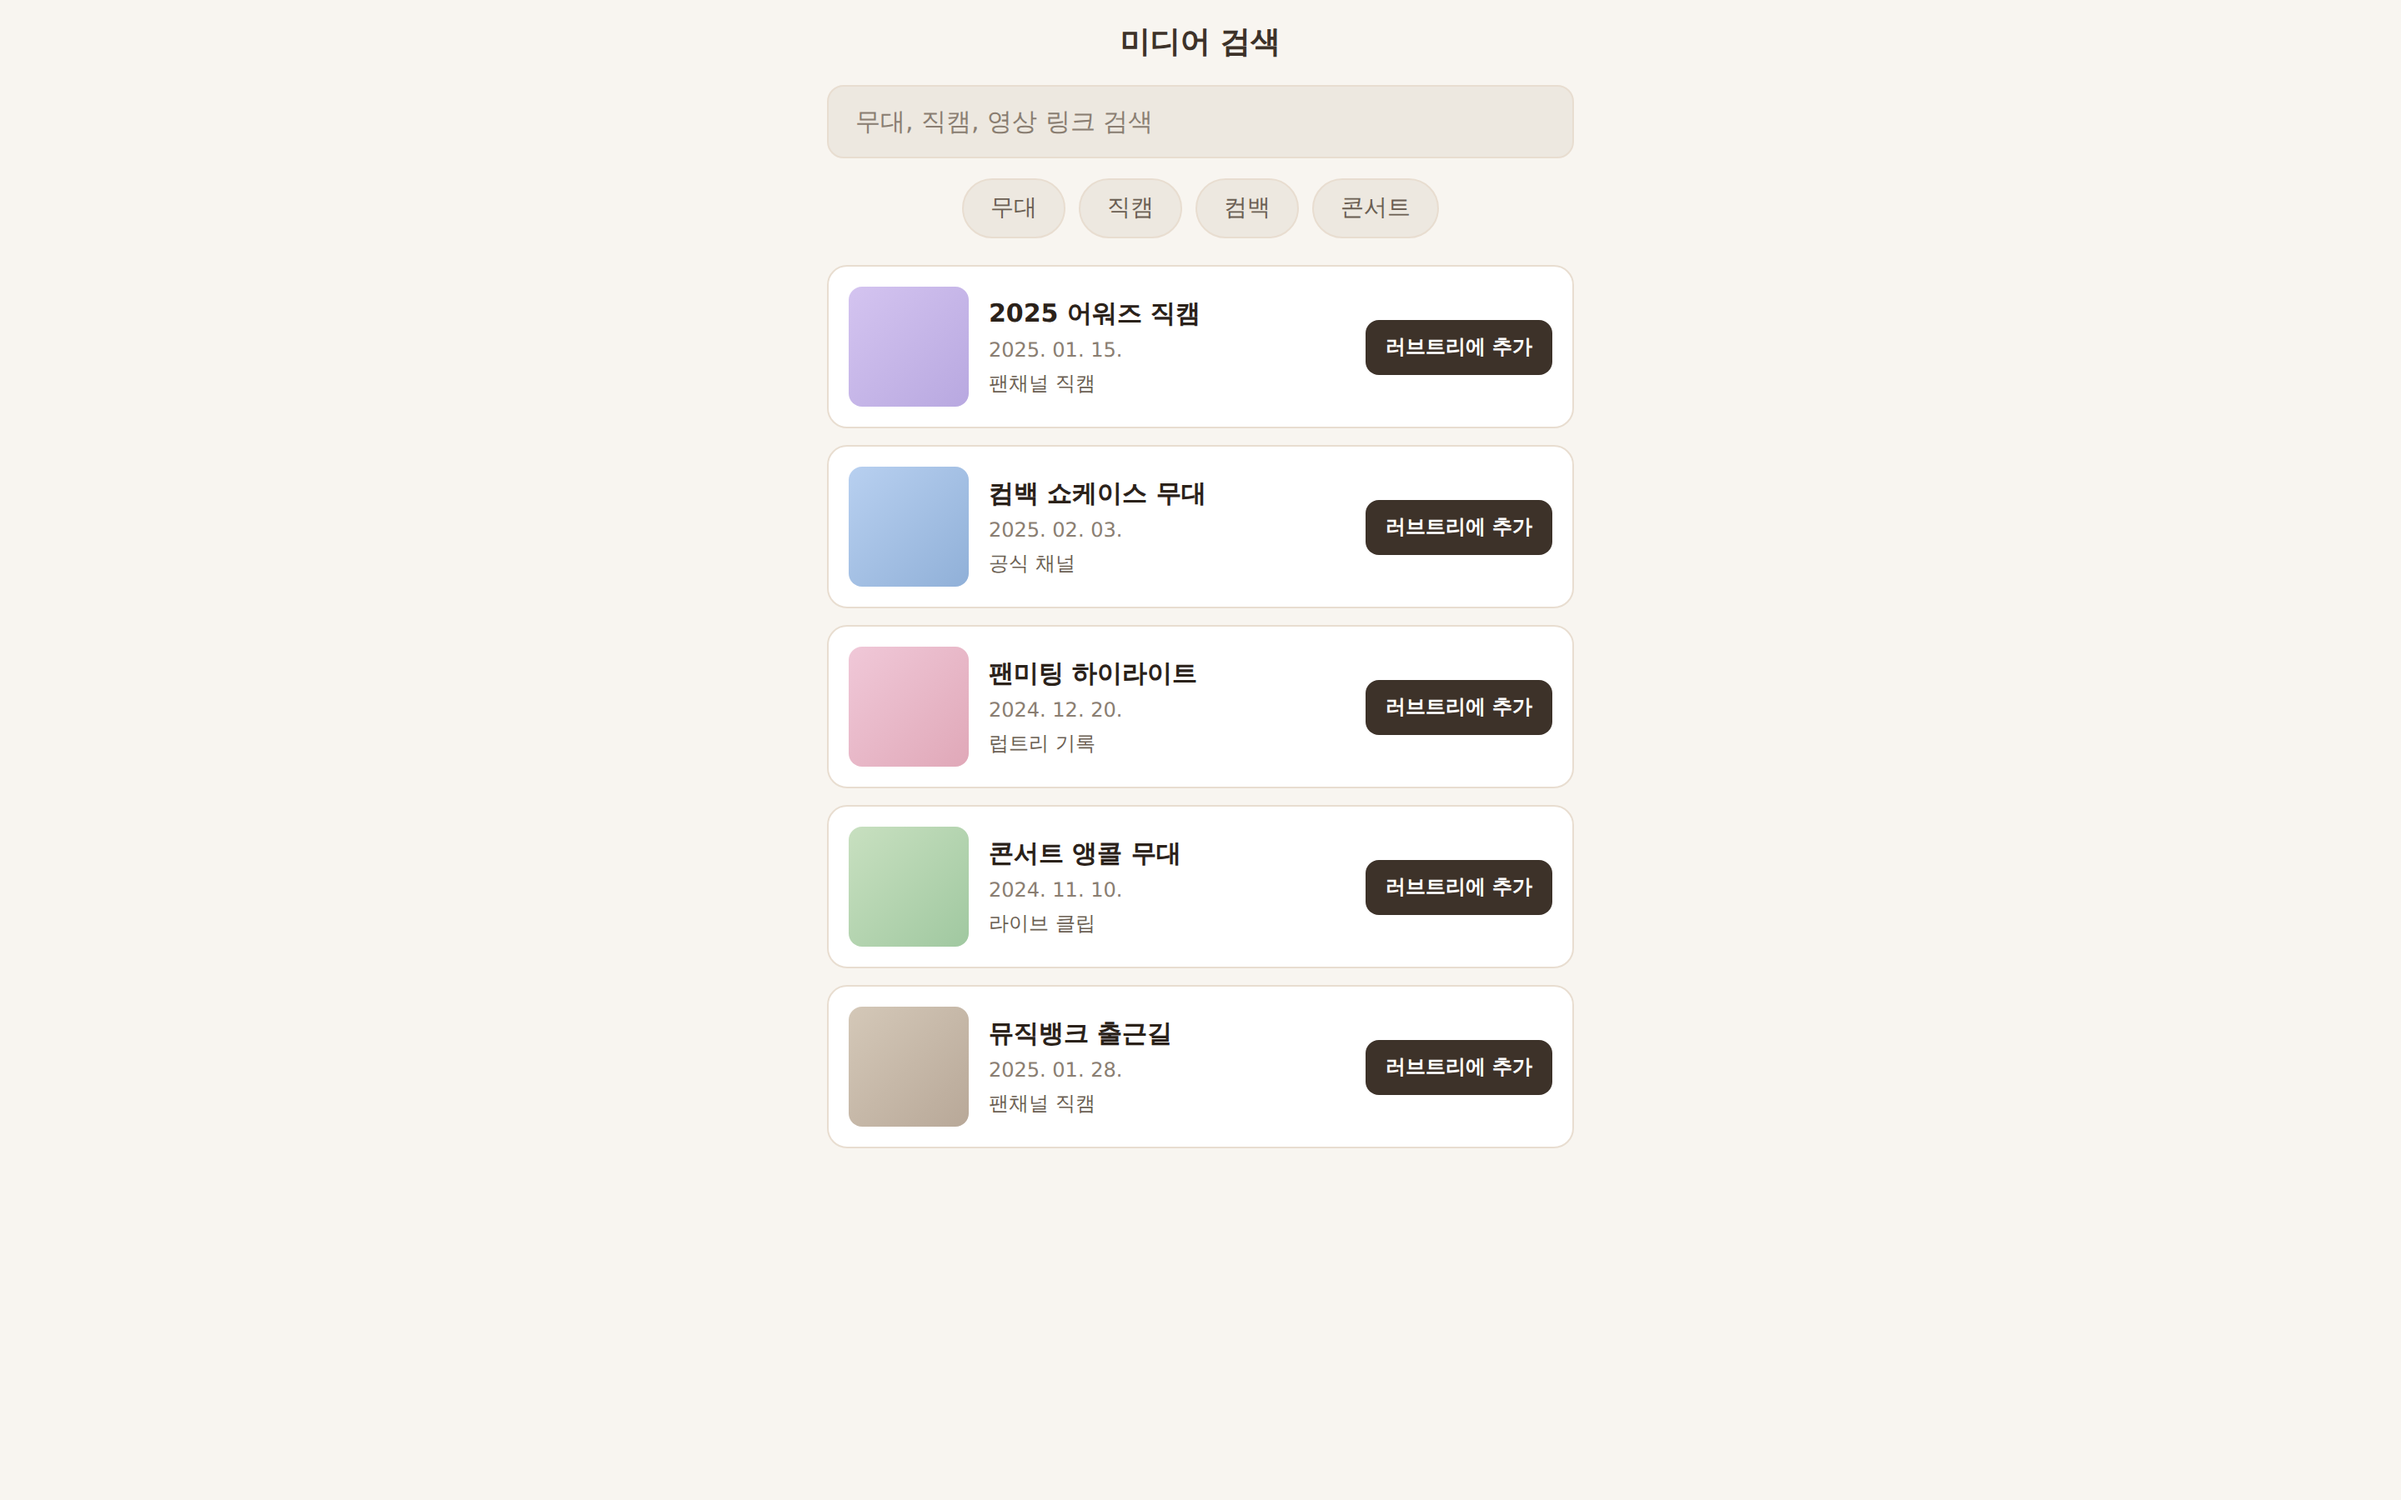
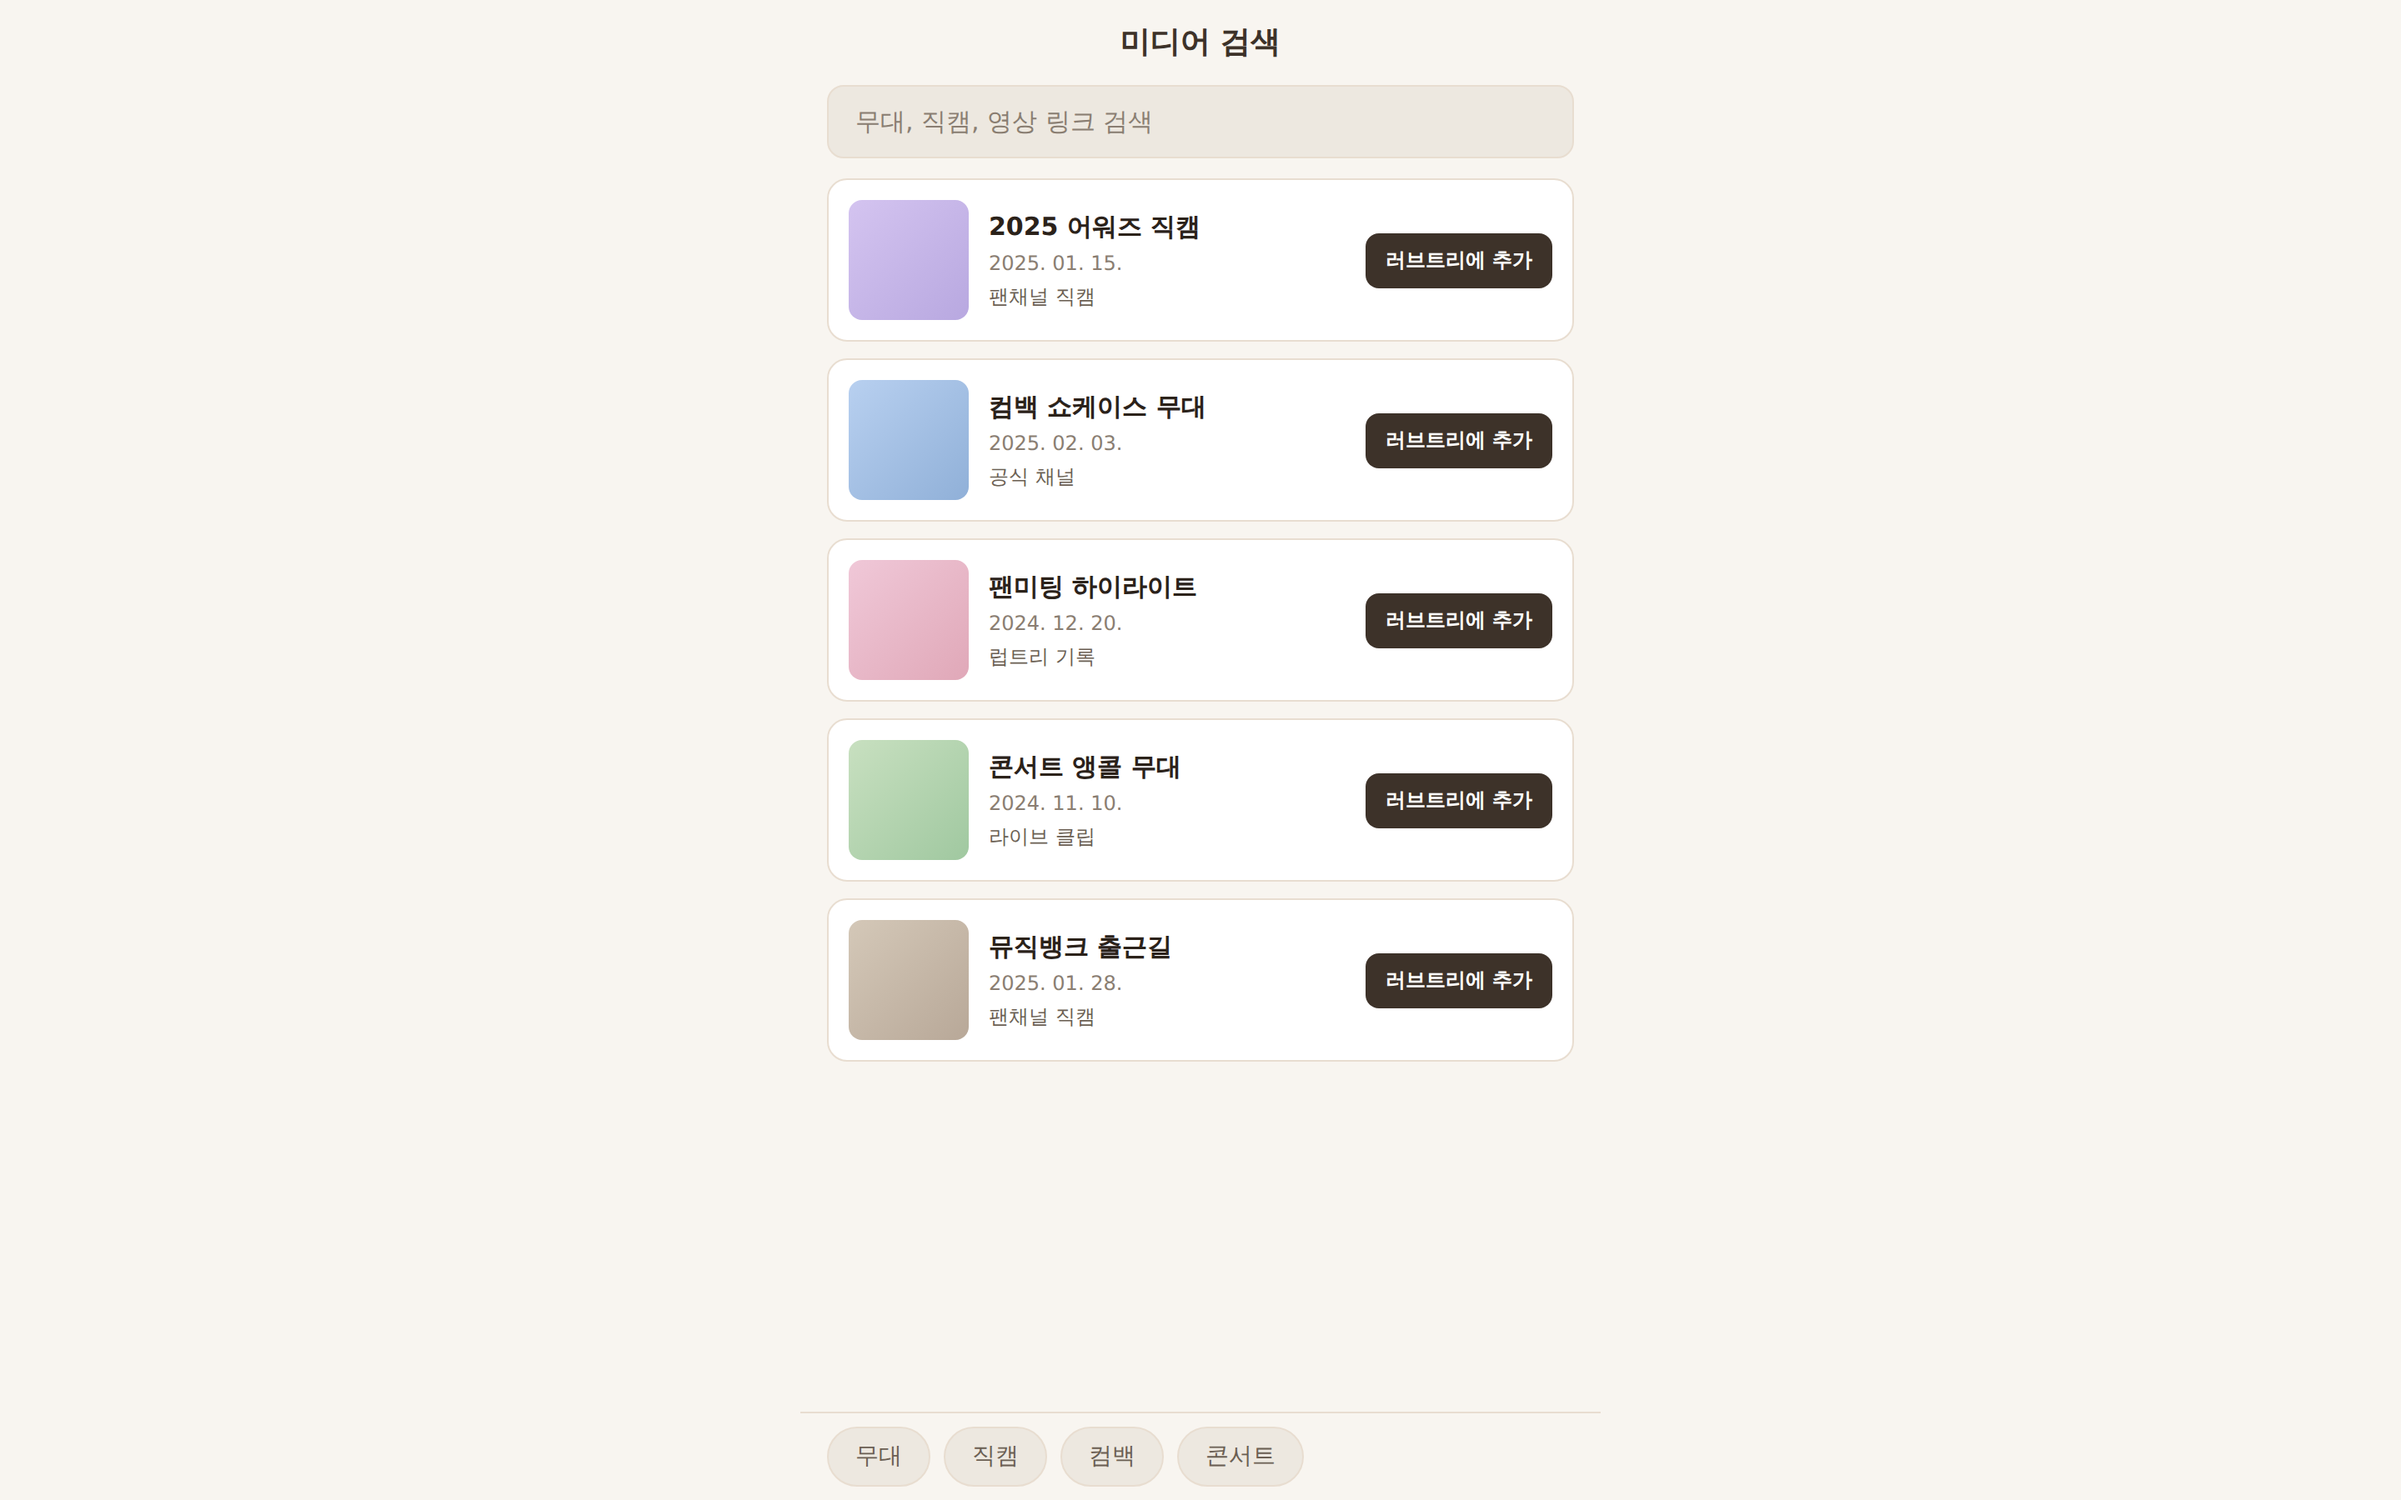
fix: align media filters with bottom layout

diff --git a/src/components/MediaSearchPage.test.tsx b/src/components/MediaSearchPage.test.tsx
@@ -193,6 +193,76 @@ describe("MediaSearchPage — /media/search-demo", () => {
 
     expect(window.location.pathname).toBe("/media/search-demo");
   });
+
+  it("검색 결과 section이 필터 group보다 DOM상 먼저 위치해야 한다", () => {
+    renderAppAt("/media/search-demo");
+    const resultSection = screen.getByRole("region", { name: "검색 결과" });
+    const filterGroup = screen.getByRole("group", { name: "카테고리 필터" });
+
+    expect(
+      resultSection.compareDocumentPosition(filterGroup) &
+        Node.DOCUMENT_POSITION_FOLLOWING
+    ).toBeTruthy();
+  });
+
+  it("필터 그룹이 결과 목록 뒤에 존재해야 한다", () => {
+    renderAppAt("/media/search-demo");
+    const filterGroup = screen.getByRole("group", { name: "카테고리 필터" });
+    expect(filterGroup).toBeInTheDocument();
+  });
+
+  it("필터 버튼만 클릭해도 카드 수가 불변이어야 한다", () => {
+    renderAppAt("/media/search-demo");
+    const filterButtons = screen.getAllByRole("button").filter(
+      (btn) =>
+        btn.textContent === "무대" ||
+        btn.textContent === "직캠" ||
+        btn.textContent === "컴백" ||
+        btn.textContent === "콘서트"
+    );
+
+    const initialCount = screen.getAllByRole("article").length;
+
+    for (const btn of filterButtons) {
+      fireEvent.click(btn);
+    }
+
+    expect(screen.getAllByRole("article")).toHaveLength(initialCount);
+  });
+
+  it("필터 버튼만 클릭해도 URL이 변하지 않아야 한다", () => {
+    renderAppAt("/media/search-demo");
+    const filterButtons = screen.getAllByRole("button").filter(
+      (btn) =>
+        btn.textContent === "무대" ||
+        btn.textContent === "직캠" ||
+        btn.textContent === "컴백" ||
+        btn.textContent === "콘서트"
+    );
+
+    for (const btn of filterButtons) {
+      fireEvent.click(btn);
+    }
+
+    expect(window.location.pathname).toBe("/media/search-demo");
+  });
+
+  it("필터 버튼에 aria-pressed, role='tab', aria-selected가 없어야 한다", () => {
+    renderAppAt("/media/search-demo");
+    const filterButtons = screen.getAllByRole("button").filter(
+      (btn) =>
+        btn.textContent === "무대" ||
+        btn.textContent === "직캠" ||
+        btn.textContent === "컴백" ||
+        btn.textContent === "콘서트"
+    );
+
+    for (const btn of filterButtons) {
+      expect(btn).not.toHaveAttribute("aria-pressed");
+      expect(btn).not.toHaveAttribute("aria-selected");
+      expect(btn).not.toHaveAttribute("role", "tab");
+    }
+  });
 });
 
 describe("기존 App 경로 검증", () => {

diff --git a/src/components/MediaSearchPage.module.css b/src/components/MediaSearchPage.module.css
@@ -55,11 +55,29 @@
   outline-offset: 2px;
 }
 
-/* ─── Filter Section ─── */
-.filterSection {
+/* ─── Result Section ─── */
+.resultSection {
+  flex: 1;
+  padding: 0 16px 96px;
+}
+
+/* ─── Filter Bar (하단 고정) ─── */
+.filterBar {
+  position: fixed;
+  left: 0;
+  right: 0;
+  bottom: 0;
+  z-index: 20;
+  background: #f8f5f0;
+  border-top: 1px solid #e8ddd0;
+  padding: 8px 16px;
+  padding-bottom: calc(8px + env(safe-area-inset-bottom, 0px));
+  box-sizing: border-box;
+}
+
+.filterGroup {
   display: flex;
   gap: 8px;
-  padding: 0 16px 16px;
   overflow-x: auto;
   -webkit-overflow-scrolling: touch;
 }
@@ -216,18 +234,18 @@
     box-sizing: border-box;
   }
 
-  .filterSection {
-    justify-content: center;
+  .resultSection {
     max-width: 480px;
     margin: 0 auto;
     width: 100%;
     box-sizing: border-box;
   }
 
-  .resultSection {
-    max-width: 480px;
-    margin: 0 auto;
-    width: 100%;
+  .filterBar {
+    left: 50%;
+    right: auto;
+    width: min(100%, 480px);
+    transform: translateX(-50%);
     box-sizing: border-box;
   }
 }

diff --git a/src/components/MediaSearchPage.tsx b/src/components/MediaSearchPage.tsx
@@ -20,15 +20,6 @@ export default function MediaSearchPage() {
         />
       </div>
 
-      {/* 카테고리 필터 */}
-      <div className={styles.filterSection} role="group" aria-label="카테고리 필터">
-        {MEDIA_CATEGORIES.map((cat) => (
-          <button key={cat} type="button" className={styles.filterButton}>
-            {cat}
-          </button>
-        ))}
-      </div>
-
       {/* 검색 결과 */}
       <section className={styles.resultSection} aria-label="검색 결과">
         <ul className={styles.resultList}>
@@ -57,6 +48,17 @@ export default function MediaSearchPage() {
           ))}
         </ul>
       </section>
+
+      {/* 하단 카테고리 필터 */}
+      <footer className={styles.filterBar}>
+        <div className={styles.filterGroup} role="group" aria-label="카테고리 필터">
+          {MEDIA_CATEGORIES.map((cat) => (
+            <button key={cat} type="button" className={styles.filterButton}>
+              {cat}
+            </button>
+          ))}
+        </div>
+      </footer>
     </div>
   );
 }

diff --git a/docs/evidence/media-search/known-visual-differences.md b/docs/evidence/media-search/known-visual-differences.md
@@ -22,7 +22,7 @@
 ## 모바일 프레임 시안의 통합 방식
 
 - 기준 이미지의 폰 프레임 내부 UI를 그대로 단일 페이지로 구현했습니다.
-- 검색창 → 카테고리 필터 → 검색 결과 리스트 순서의 수직 레이아웃입니다.
+- 검색창 → 검색 결과 리스트 → 하단 카테고리 필터 순서의 수직 레이아웃입니다.
 - 부가 설명 패널의 요소(확대된 카드 보기, 태그 표시 등)는 통합하지 않았습니다.
 
 ## 구현 상세
@@ -46,9 +46,11 @@
 
 ### API·Firebase·인증 없음
 - 네트워크 요청, Firebase, localStorage, 인증 관련 코드가 없습니다.
-
 ### 카테고리 필터
-- 4개의 카테고리 버튼(무대, 직캠, 컴백, 콘서트)을 표시합니다.
+
+- 4개의 카테고리 버튼(무대, 직캠, 컴백, 콘서트)을 화면 하단 고정 bar에 표시합니다.
+- 모바일: `position: fixed`로 하단에 배치, safe-area 대응.
+- 데스크톱: 480px 중앙 정렬.
 - `aria-pressed`, `role="tab"`, `aria-selected`를 사용하지 않은 장식성 UI입니다.
 - 실제 필터링 기능은 없습니다.
 
@@ -59,7 +61,6 @@
 - 결과 리스트: `section > ul > li > article`
 - 각 article: `aria-labelledby`로 카드 제목 연결
 - 추가 버튼: `aria-label="{title} 러브트리에 추가"`
-- 장식 SVG: `aria-hidden="true"`
 - `focus-visible` 스타일 적용
 - 색상만으로 상태를 표현하지 않음
 
